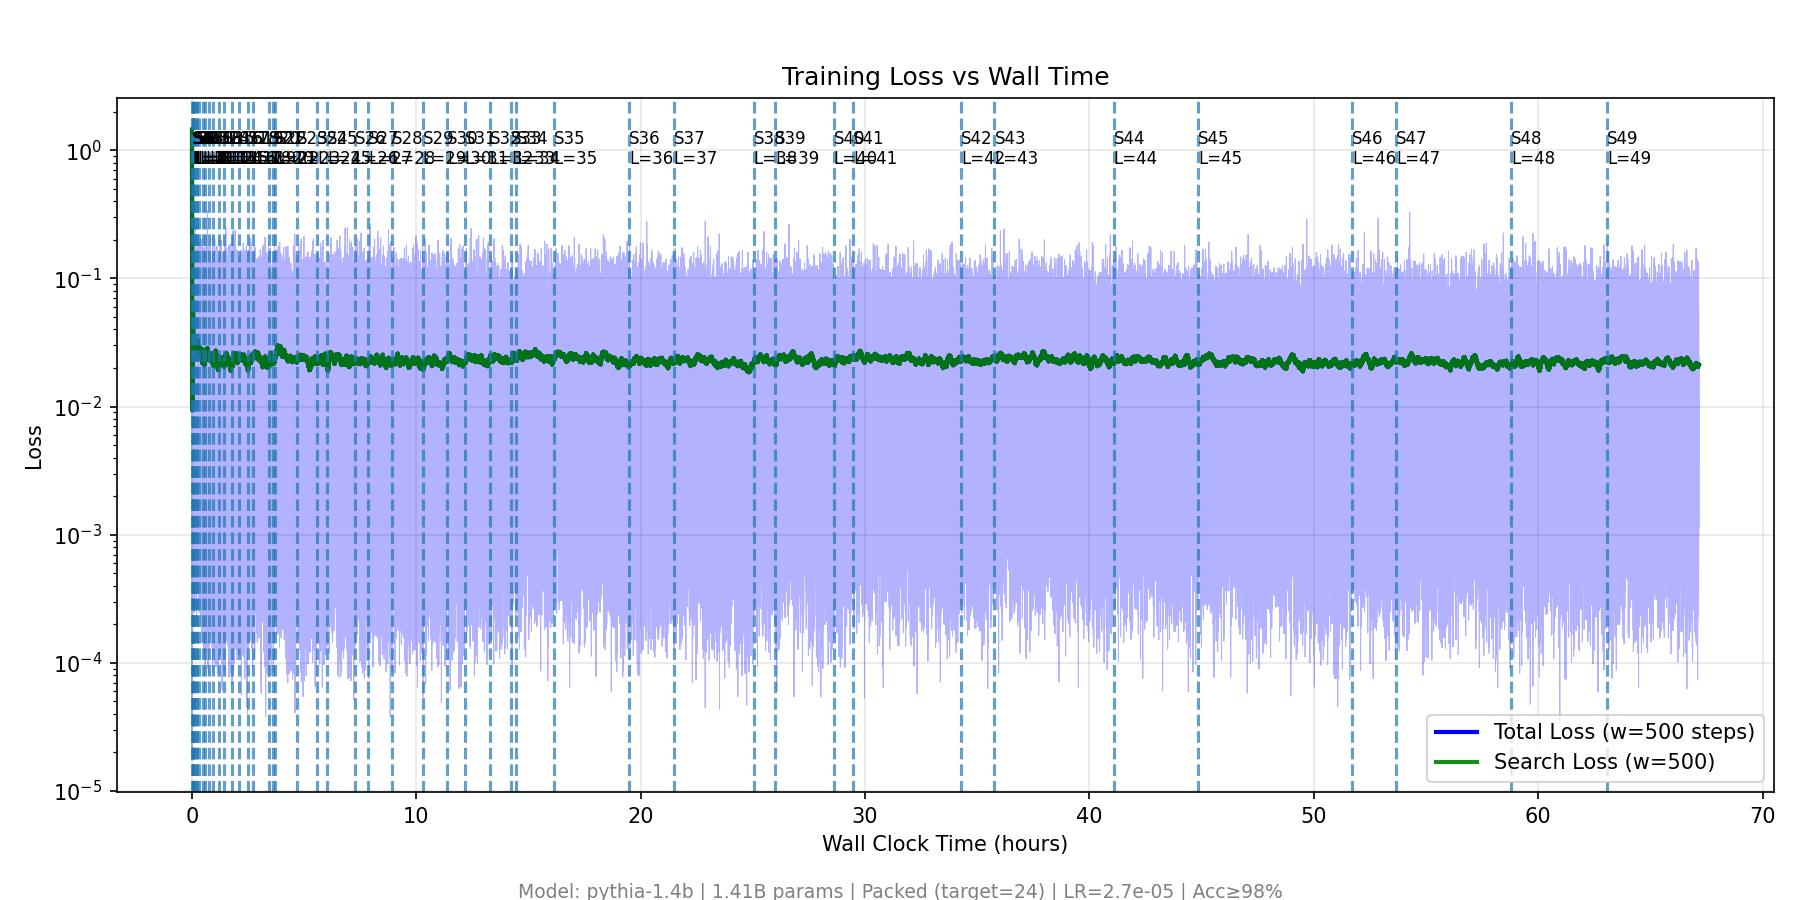
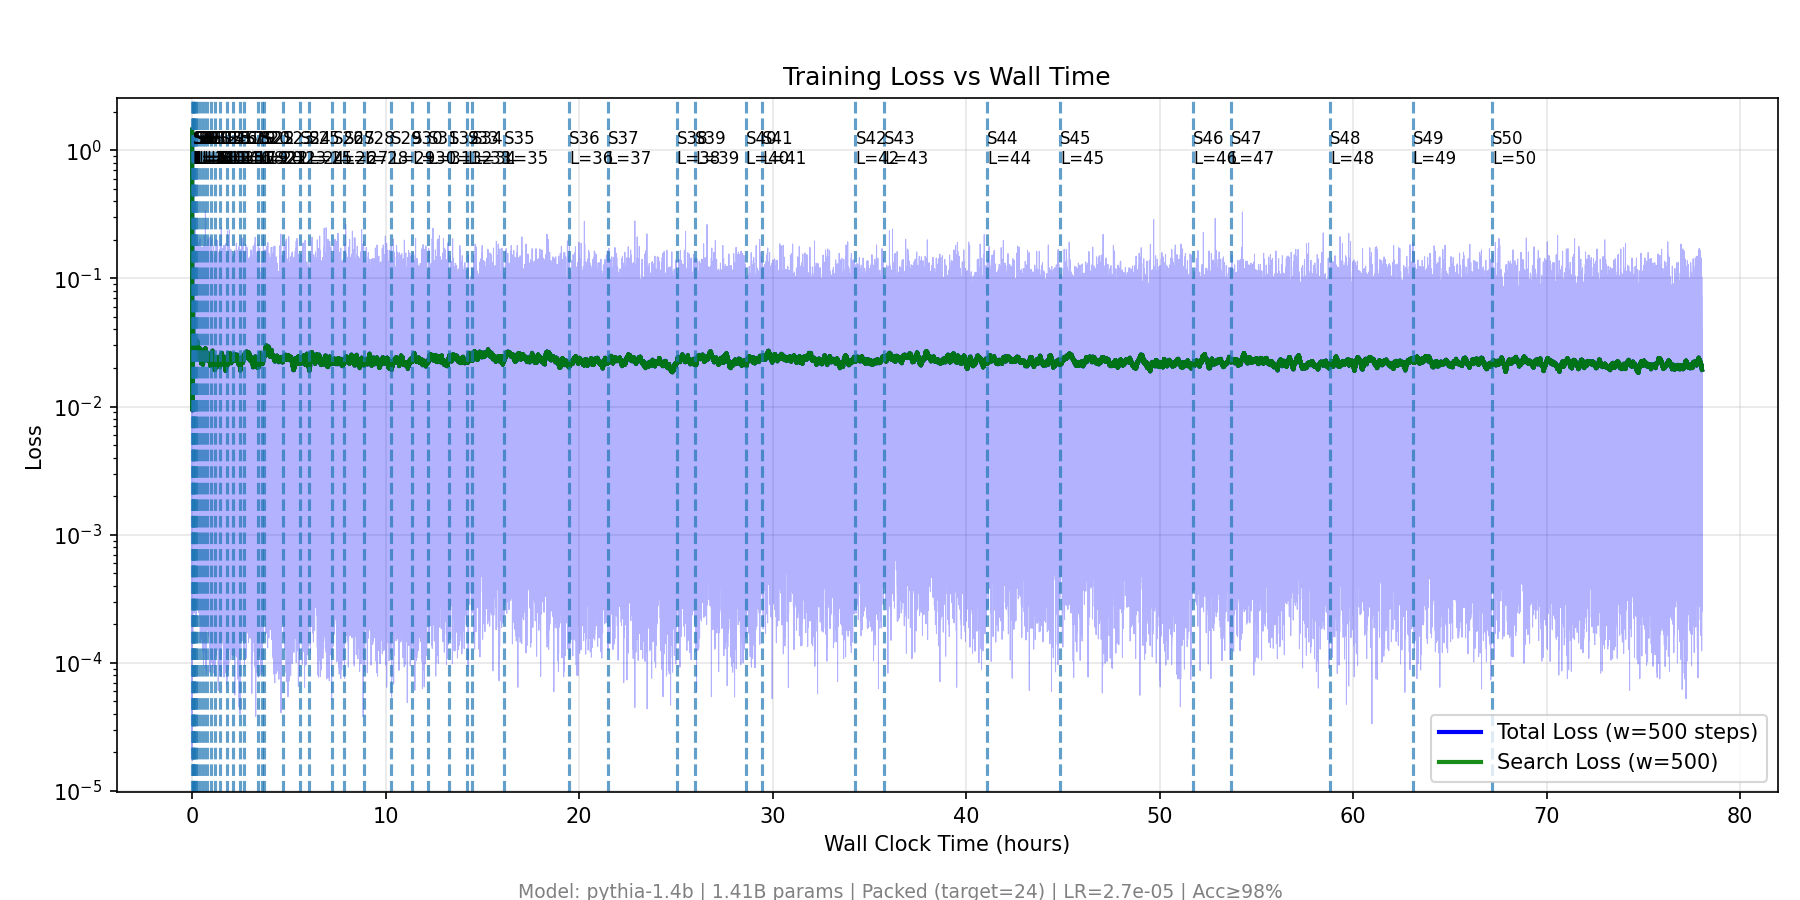
Update Experiment 2 progress (2026-10-21 03:51 UTC)

diff --git a/PROGRESS.md b/PROGRESS.md
@@ -3,7 +3,7 @@
 **Base commit:** `da7b19c` (`main`, plus `--revision` support in `nl/tuning_nl.py`)
 **Branch:** `jackierwzhang/exp2-pythia14b-revisions`
 **VM Instances:** `nl-exp2-spot-step1000`, `nl-exp2-spot-step10000`, `nl-exp2-spot-step100000`, `nl-exp2-spot-step143000` (4x `a3-highgpu-4g` Spot, 4x H100-80GB each)
-**Last updated:** 2026-10-21 03:34 UTC
+**Last updated:** 2026-10-21 03:51 UTC
 
 ## Shared Configuration
 
@@ -29,7 +29,7 @@
 | `step1000` | `step1000` | ~2.1B | `exp2_pythia14b_step1000` | Spot 4x H100 (us-east4-a) | Completed (PFLOPs cap) | 673000 | 28/96 (`L=28`) | 94.62% | 96.25% | 0.0295 | 500,310.1 | 1238.0 | 121.84h | 0.0h (Done) |
 | `step10000` | `step10000` | ~21.0B | `exp2_pythia14b_step10000` | Spot 4x H100 (us-east4-a) | Completed (PFLOPs cap) | 615500 | 28/96 (`L=28`) | 94.88% | 97.75% | 0.0298 | 500,428.3 | 1240.3 | 120.07h | 0.0h (Done) |
 | `step100000` | `step100000` | ~209.7B | `exp2_pythia14b_step100000` | Spot 4x H100 (us-east4-b) | Completed (PFLOPs cap) | 347000 | 58/96 (`L=58`) | 94.88% | 96.88% | 0.0260 | 500,114.3 | 1290.1 | 101.85h | 0.0h (Done) |
-| `step143000` | `step143000` | ~299.9B | `exp2_pythia14b_step143000` | Spot 4x H100 (us-east5-a) | Running | 303170 | 50/96 (`L=50`) | 96.75% | 98.00% | 0.0225 | 388,918.5 | 1301.7 | 77.81h | ~71.7h (stg rate, 52.1% L) / 22.0h (500k cap @ 5,051 PF/h) |
+| `step143000` | `step143000` | ~299.9B | `exp2_pythia14b_step143000` | Spot 4x H100 (us-east5-a) | Running | 304000 | 51/96 (`L=51`) | 97.62% | 98.88% | 0.0215 | 390,475.3 | 1333.2 | 78.12h | ~69.0h (stg rate, 53.1% L) / 21.2h (500k cap @ 5,173 PF/h) |
 
 ## Stage Evaluation Summary (`stage_eval_history.json`, every 8 stages)
 
